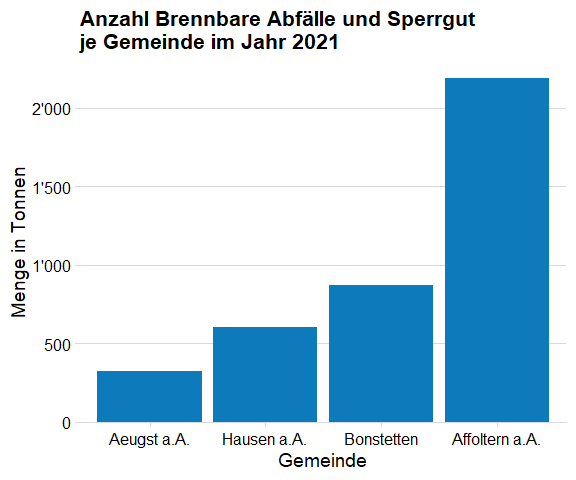
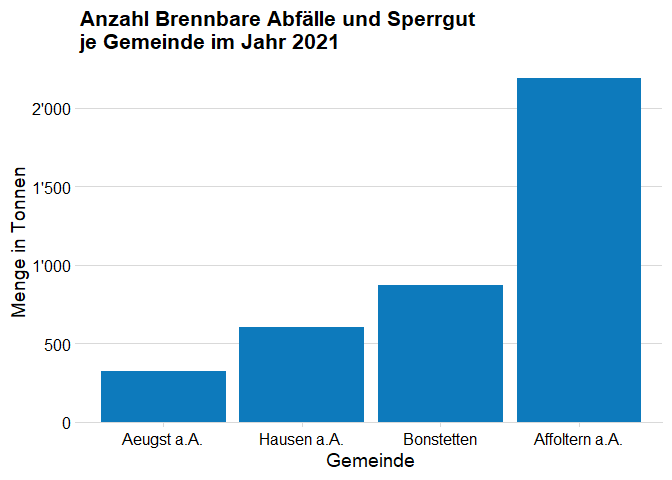
adjust fig.height

diff --git a/README.md b/README.md
@@ -68,7 +68,7 @@ plot1
 Da der Output von biviz ein ggplot2 Objekt ist, können es anschliessend
 innerhalb des ggplot2 Frameworks weiter bearbeitet werden. Der ganze
 Datensatz aus dem Beipsiel stehen unter
-[opendata.swiss](https://opendata.swiss/de/dataset/abfallmengen-und-abfallgebuhren-in-den-gemeinden-im-kanton-zurich-ab-2000/resource/2f2cd364-6f42-4611-be73-98d3f0bb6acc)
+[opendata.swiss](https://opendata.swiss/de/dataset/abfallmengen-und-abfallgebuhren-in-den-gemeinden-im-kanton-zurich-ab-2000/)
 frei zur Verfügung.
 
 ``` r
